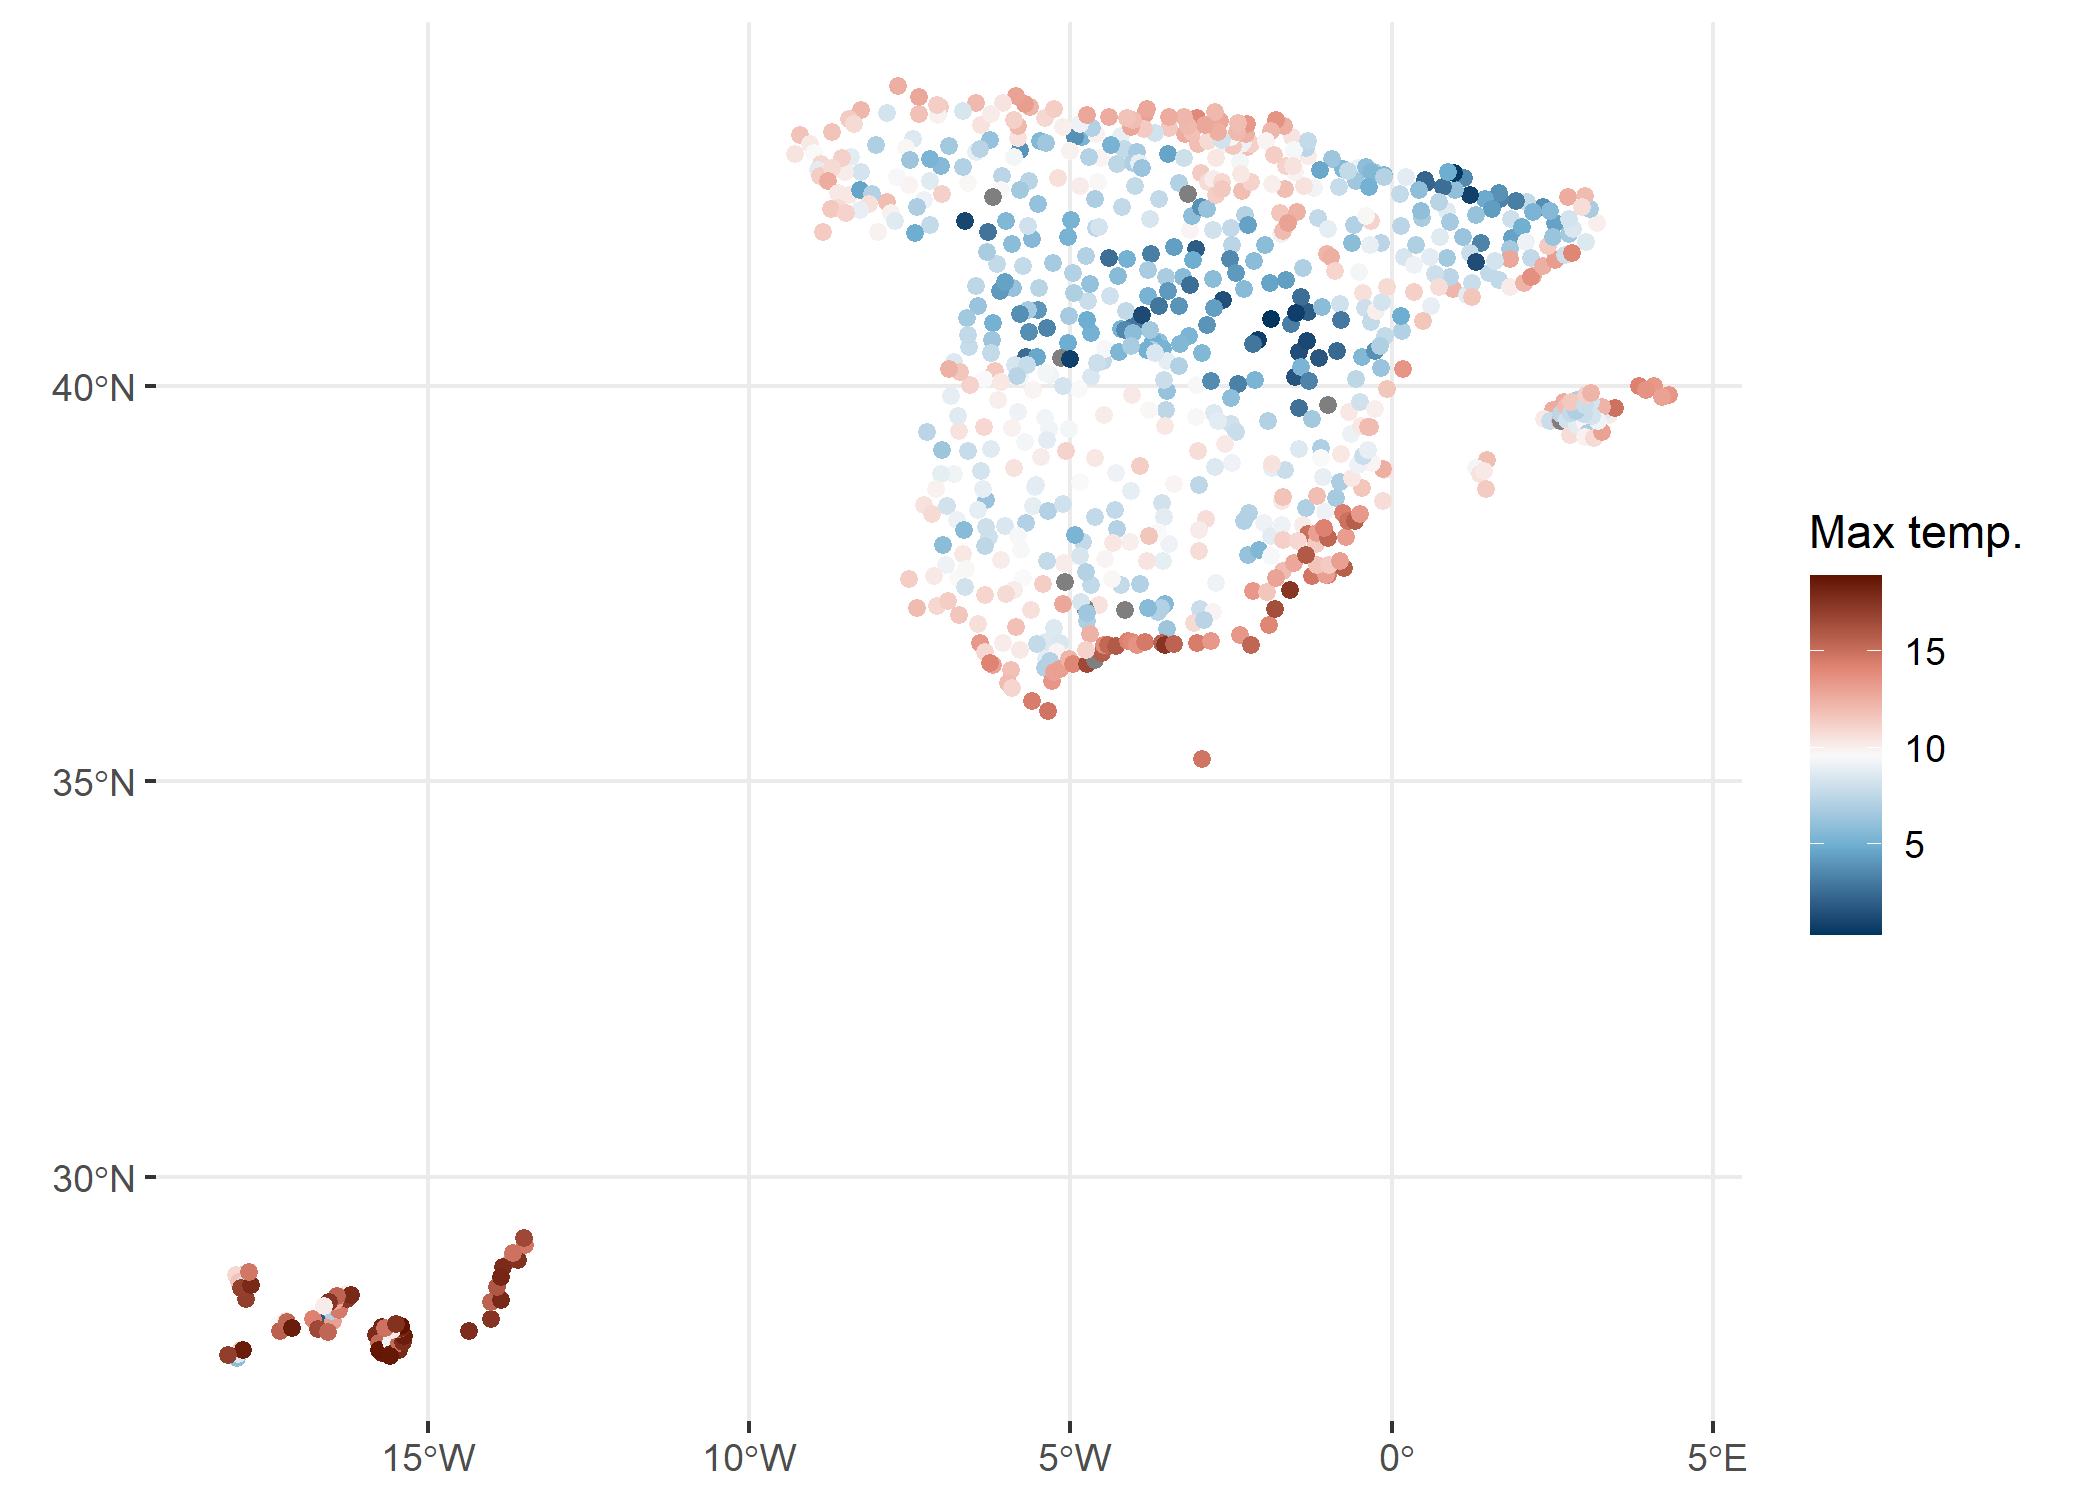
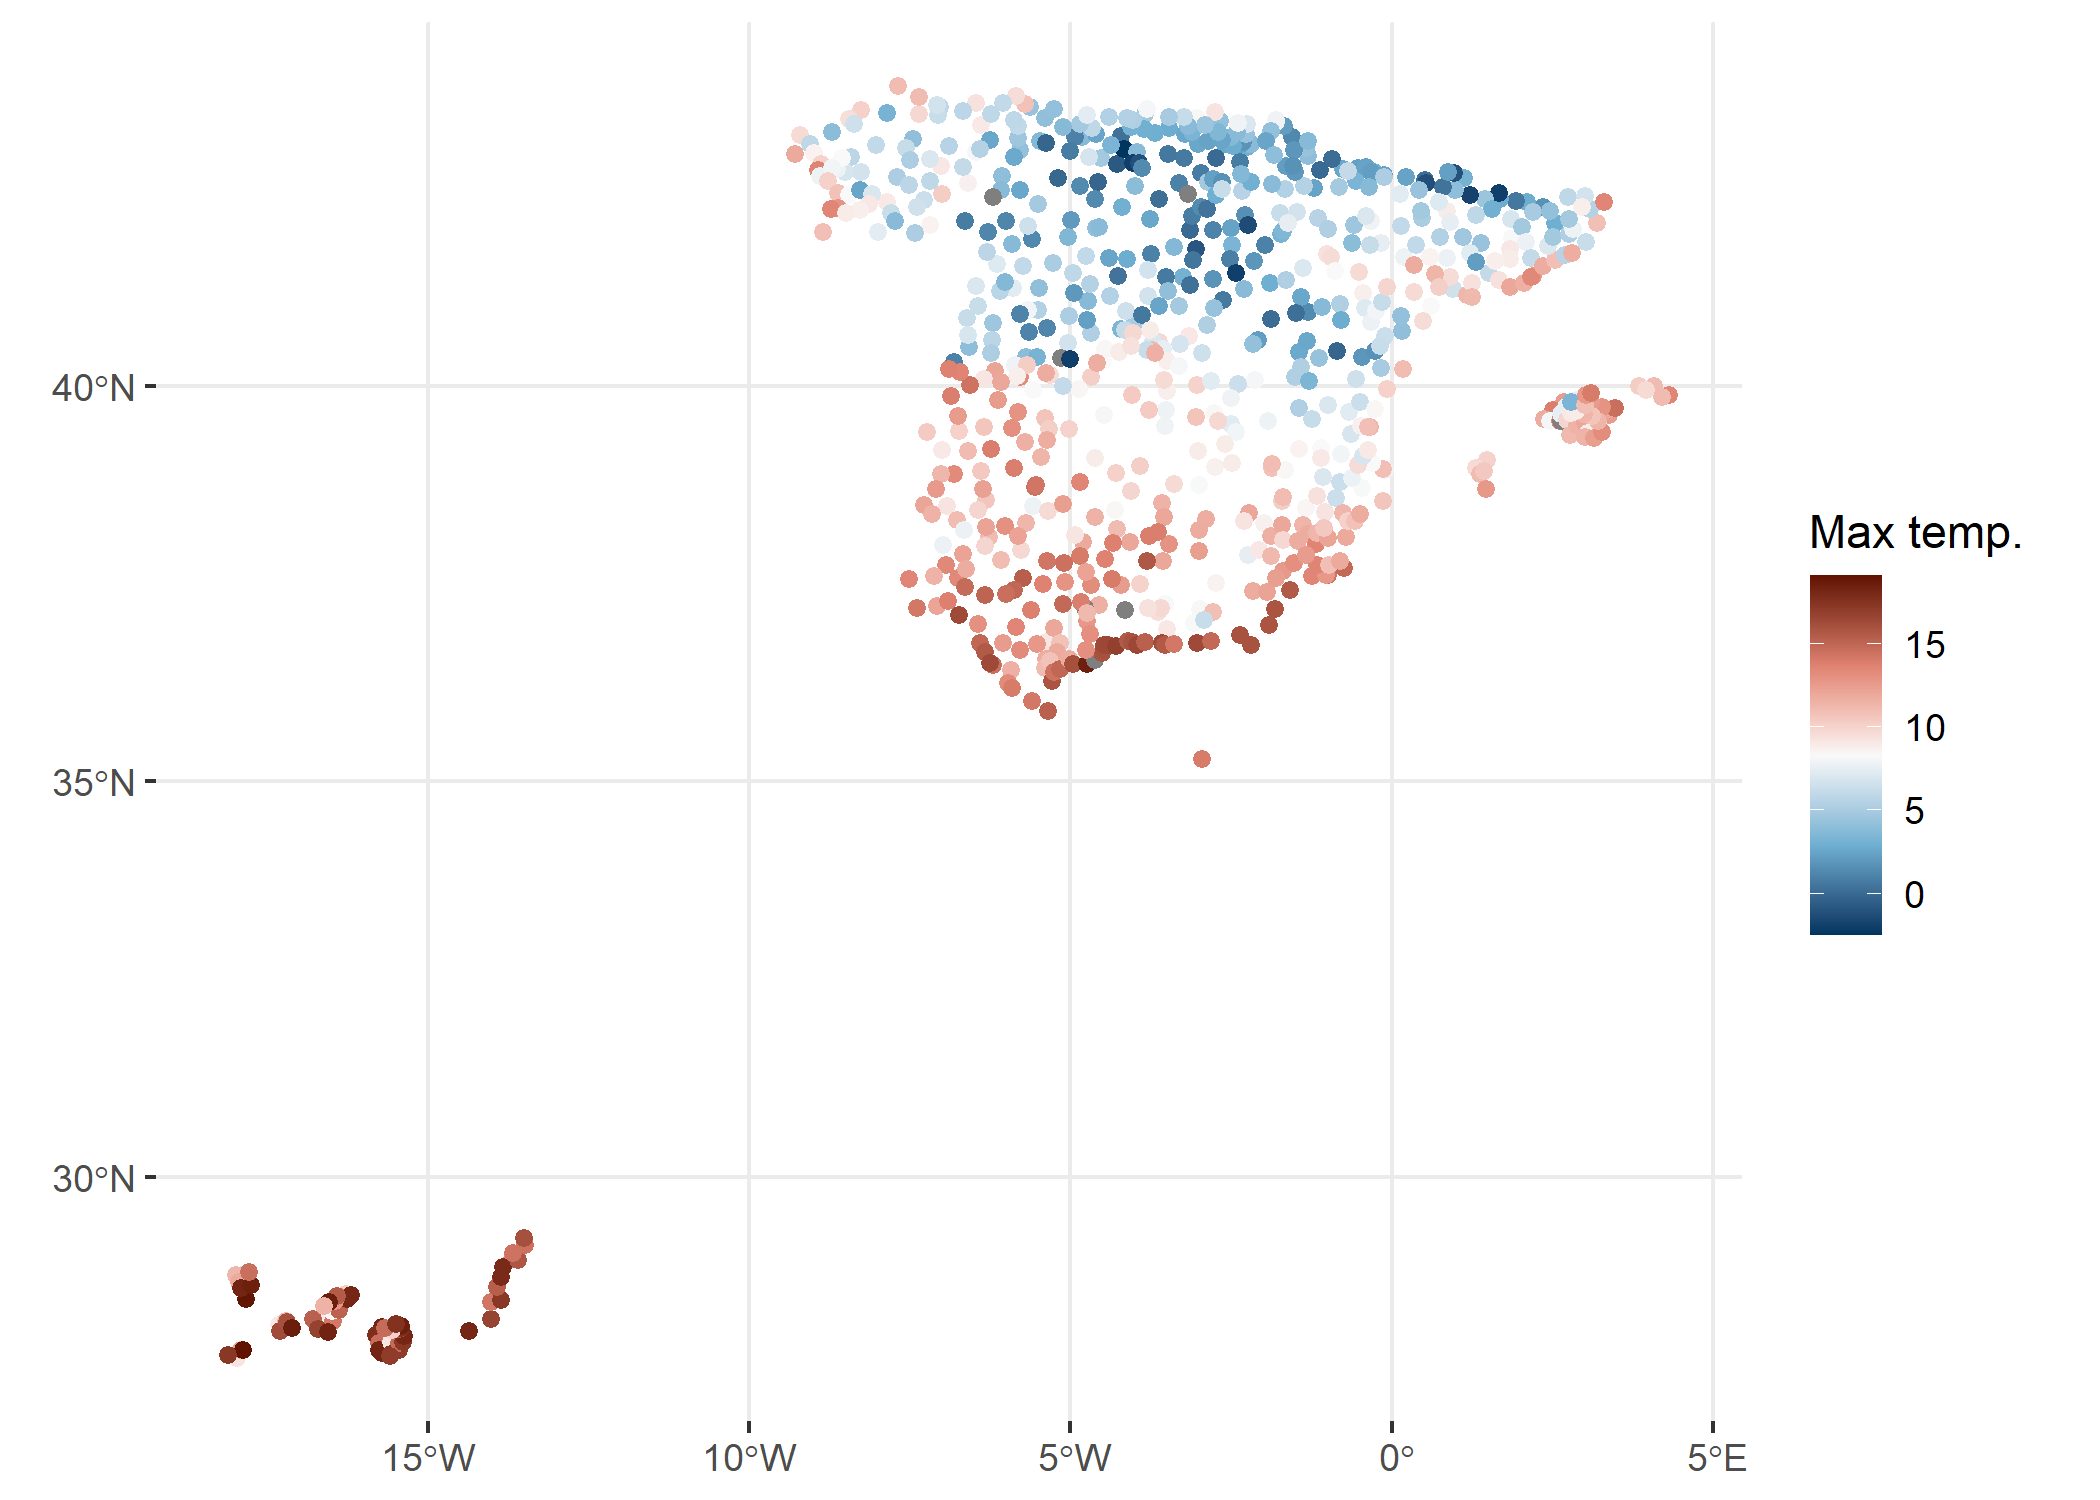
Change plot colors on article

diff --git a/README.md b/README.md
@@ -29,6 +29,10 @@ graphics, climatograms, etc.).
 
 Browse manual at <https://ropenspain.github.io/climaemet/>
 
+<p align="center">
+<img alt="climaemet_gif" src="https://ropenspain.github.io/climaemet/articles/articles/winter_2021.gif" width="60%">
+</p>
+
 ## AEMET Open Data
 
 AEMET OpenData is a REST API developed by AEMET that allows the
@@ -114,20 +118,20 @@ See how a tibble is displayed:
 # See a tibble in action
 
 aemet_last_obs("9434")
-#> # A tibble: 24 x 25
+#> # A tibble: 23 x 25
 #>    idema   lon fint                 prec   alt  vmax    vv    dv   lat  dmax
 #>    <chr> <dbl> <dttm>              <dbl> <dbl> <dbl> <dbl> <dbl> <dbl> <dbl>
-#>  1 9434  -1.00 2021-04-03 06:00:00     0   249   9.2   6.6   289  41.7   288
-#>  2 9434  -1.00 2021-04-03 07:00:00     0   249   8.7   6.8   295  41.7   270
-#>  3 9434  -1.00 2021-04-03 08:00:00     0   249  11.9   8.9   309  41.7   313
-#>  4 9434  -1.00 2021-04-03 09:00:00     0   249  12.6   8.6   313  41.7   318
-#>  5 9434  -1.00 2021-04-03 10:00:00     0   249  12.4   9.1   309  41.7   303
-#>  6 9434  -1.00 2021-04-03 11:00:00     0   249  12.9   8.6   313  41.7   300
-#>  7 9434  -1.00 2021-04-03 12:00:00     0   249  12.9   7.6   316  41.7   310
-#>  8 9434  -1.00 2021-04-03 13:00:00     0   249  13.6  10     310  41.7   315
-#>  9 9434  -1.00 2021-04-03 14:00:00     0   249  14.5   9.6   314  41.7   305
-#> 10 9434  -1.00 2021-04-03 15:00:00     0   249  15.5  10.3   319  41.7   328
-#> # ... with 14 more rows, and 15 more variables: ubi <chr>, pres <dbl>,
+#>  1 9434  -1.00 2021-04-05 01:00:00     0   249   7.5   5.8   292  41.7   295
+#>  2 9434  -1.00 2021-04-05 02:00:00     0   249   7.7   5     278  41.7   285
+#>  3 9434  -1.00 2021-04-05 03:00:00     0   249   8     4.8   294  41.7   280
+#>  4 9434  -1.00 2021-04-05 04:00:00     0   249   7.1   4.9   284  41.7   275
+#>  5 9434  -1.00 2021-04-05 05:00:00     0   249   8.2   5.5   285  41.7   303
+#>  6 9434  -1.00 2021-04-05 06:00:00     0   249   6.9   4.7   289  41.7   285
+#>  7 9434  -1.00 2021-04-05 07:00:00     0   249   8.4   6.7   307  41.7   310
+#>  8 9434  -1.00 2021-04-05 08:00:00     0   249  10.2   5.6   317  41.7   313
+#>  9 9434  -1.00 2021-04-05 09:00:00     0   249   8.4   4.9   307  41.7   298
+#> 10 9434  -1.00 2021-04-05 10:00:00     0   249   8.5   6     323  41.7   298
+#> # ... with 13 more rows, and 15 more variables: ubi <chr>, pres <dbl>,
 #> #   hr <dbl>, stdvv <dbl>, ts <dbl>, pres_nmar <dbl>, tamin <dbl>, ta <dbl>,
 #> #   tamax <dbl>, tpr <dbl>, stddv <dbl>, inso <dbl>, tss5cm <dbl>,
 #> #   pacutp <dbl>, tss20cm <dbl>
@@ -163,14 +167,14 @@ data_observation <- aemet_last_obs(station)
 knitr::kable(head(data_observation))
 ```
 
-| idema |       lon | fint                | prec | alt | vmax |  vv |  dv |      lat | dmax | ubi                 |  pres |  hr | stdvv |   ts | pres\_nmar | tamin |   ta | tamax | tpr | stddv | inso | tss5cm | pacutp | tss20cm |
-|:------|----------:|:--------------------|-----:|----:|-----:|----:|----:|---------:|-----:|:--------------------|------:|----:|------:|-----:|-----------:|------:|-----:|------:|----:|------:|-----:|-------:|-------:|--------:|
-| 9434  | -1.004167 | 2021-04-03 06:00:00 |    0 | 249 |  9.2 | 6.6 | 289 | 41.66056 |  288 | ZARAGOZA AEROPUERTO | 984.2 |  72 |   0.6 | 12.1 |     1014.1 |  12.0 | 12.2 |  12.2 | 7.3 |     5 |  0.0 |   15.4 |      0 |    16.7 |
-| 9434  | -1.004167 | 2021-04-03 07:00:00 |    0 | 249 |  8.7 | 6.8 | 295 | 41.66056 |  270 | ZARAGOZA AEROPUERTO | 984.4 |  71 |   0.7 | 13.4 |     1014.2 |  12.2 | 13.1 |  13.1 | 8.0 |     5 |  6.7 |   15.2 |      0 |    16.6 |
-| 9434  | -1.004167 | 2021-04-03 08:00:00 |    0 | 249 | 11.9 | 8.9 | 309 | 41.66056 |  313 | ZARAGOZA AEROPUERTO | 984.4 |  69 |   1.0 | 15.3 |     1014.1 |  13.1 | 14.2 |  14.2 | 8.7 |     6 | 60.0 |   15.3 |      0 |    16.4 |
-| 9434  | -1.004167 | 2021-04-03 09:00:00 |    0 | 249 | 12.6 | 8.6 | 313 | 41.66056 |  318 | ZARAGOZA AEROPUERTO | 984.6 |  66 |   1.4 | 17.5 |     1014.2 |  14.2 | 15.6 |  15.6 | 9.3 |     7 | 60.0 |   15.7 |      0 |    16.3 |
-| 9434  | -1.004167 | 2021-04-03 10:00:00 |    0 | 249 | 12.4 | 9.1 | 309 | 41.66056 |  303 | ZARAGOZA AEROPUERTO | 984.4 |  61 |   1.2 | 19.6 |     1013.8 |  15.6 | 17.3 |  17.3 | 9.7 |     9 | 60.0 |   16.4 |      0 |    16.2 |
-| 9434  | -1.004167 | 2021-04-03 11:00:00 |    0 | 249 | 12.9 | 8.6 | 313 | 41.66056 |  300 | ZARAGOZA AEROPUERTO | 983.9 |  57 |   1.4 | 21.4 |     1013.1 |  17.2 | 18.5 |  18.5 | 9.8 |    12 | 60.0 |   17.3 |      0 |    16.2 |
+| idema |       lon | fint                | prec | alt | vmax |  vv |  dv |      lat | dmax | ubi                 |  pres |  hr | stdvv |  ts | pres\_nmar | tamin |  ta | tamax |  tpr | stddv | inso | tss5cm | pacutp | tss20cm |
+|:------|----------:|:--------------------|-----:|----:|-----:|----:|----:|---------:|-----:|:--------------------|------:|----:|------:|----:|-----------:|------:|----:|------:|-----:|------:|-----:|-------:|-------:|--------:|
+| 9434  | -1.004167 | 2021-04-05 01:00:00 |    0 | 249 |  7.5 | 5.8 | 292 | 41.66056 |  295 | ZARAGOZA AEROPUERTO | 989.2 |  53 |   0.6 | 9.2 |     1019.7 |   9.4 | 9.4 |  10.3 |  0.2 |     5 |  0.0 |   15.5 |      0 |    17.1 |
+| 9434  | -1.004167 | 2021-04-05 02:00:00 |    0 | 249 |  7.7 | 5.0 | 278 | 41.66056 |  285 | ZARAGOZA AEROPUERTO | 989.0 |  53 |   0.7 | 7.9 |     1019.6 |   8.4 | 8.5 |   9.4 | -0.5 |     7 |  0.0 |   15.0 |      0 |    16.9 |
+| 9434  | -1.004167 | 2021-04-05 03:00:00 |    0 | 249 |  8.0 | 4.8 | 294 | 41.66056 |  280 | ZARAGOZA AEROPUERTO | 988.8 |  53 |   0.4 | 7.9 |     1019.4 |   8.2 | 8.2 |   8.7 | -0.7 |     5 |  0.0 |   14.6 |      0 |    16.7 |
+| 9434  | -1.004167 | 2021-04-05 04:00:00 |    0 | 249 |  7.1 | 4.9 | 284 | 41.66056 |  275 | ZARAGOZA AEROPUERTO | 989.0 |  52 |   0.7 | 7.4 |     1019.6 |   7.8 | 7.9 |   8.2 | -1.4 |     6 |  0.0 |   14.2 |      0 |    16.4 |
+| 9434  | -1.004167 | 2021-04-05 05:00:00 |    0 | 249 |  8.2 | 5.5 | 285 | 41.66056 |  303 | ZARAGOZA AEROPUERTO | 989.4 |  55 |   0.4 | 7.0 |     1020.1 |   7.4 | 7.4 |   7.9 | -1.0 |     4 |  0.0 |   13.8 |      0 |    16.2 |
+| 9434  | -1.004167 | 2021-04-05 06:00:00 |    0 | 249 |  6.9 | 4.7 | 289 | 41.66056 |  285 | ZARAGOZA AEROPUERTO | 989.6 |  58 |   0.4 | 6.8 |     1020.3 |   7.1 | 7.1 |   7.4 | -0.7 |     5 |  2.2 |   13.5 |      0 |    16.0 |
 
 ``` r
 ## Get daily/annual climatology values for a station
